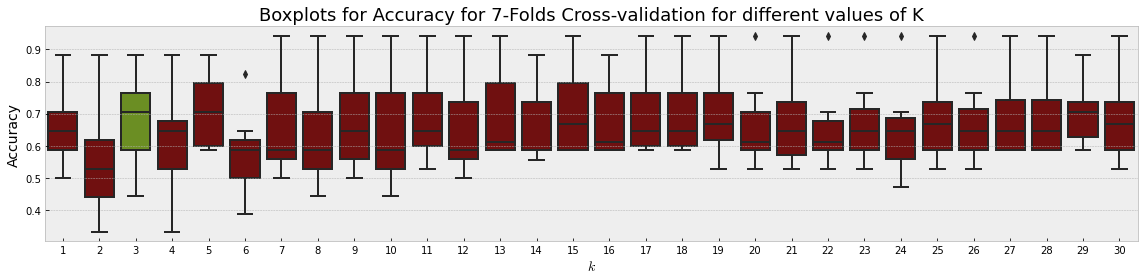
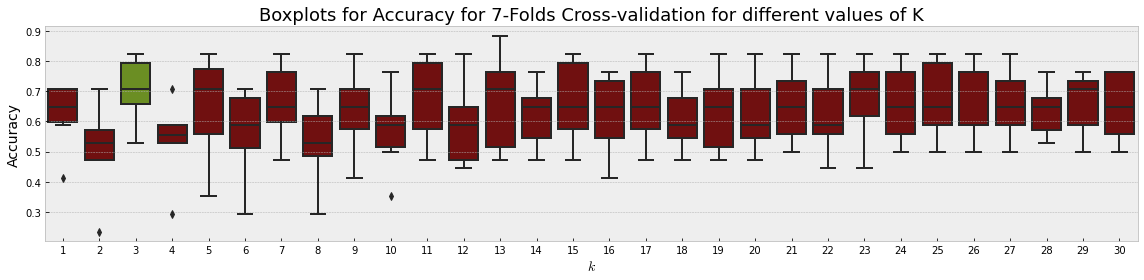
Update KNN

diff --git a/content/Machine Learning/k-Nearest Neighbors.md b/content/Machine Learning/k-Nearest Neighbors.md
@@ -7,7 +7,11 @@ import numpy as np
 import pandas as pd
 import matplotlib.pyplot as plt
 import seaborn as sns
+
 from sklearn import datasets
+from sklearn.model_selection import train_test_split
+from sklearn.model_selection import KFold
+
 from scipy.spatial import distance_matrix
 from scipy.spatial import distance
 ```
@@ -57,21 +61,21 @@ The observed data is the input of the algorithm, and it consists of the all the 
 
 
 ```python
-def k_nearest_neighbors(k, train_x, train_y, test, metric='euclidean'):
+def k_nearest_neighbors(k, train_x, train_y, test_x, metric='euclidean'):
     '''
     Train_x can be considered as the training points (cross-validation) or the original data (prediction)
     Train_y can be considered as the training labels of the orginal points (cross-validation) or the labels of the original data (prediction)
-    Test can be considered as the testing points (cross-validation) or the new points (prediction)    
+    Test_x can be considered as the testing points (cross-validation) or the new points (prediction)    
     '''
     
     # Scale data between 0 and 1 (min-max normalization)
     train_x_min = train_x.min(axis=0)
     train_x_max = train_x.max(axis=0)
     train_x = (train_x - train_x_min) / (train_x_max - train_x_min)
-    test = (test - train_x_min) / (train_x_max - train_x_min)
+    test_x = (test_x - train_x_min) / (train_x_max - train_x_min)
     
     # Calculate distance from each test point to train points
-    distances_matrix = distance.cdist(test, train_x, metric=metric)
+    distances_matrix = distance.cdist(test_x, train_x, metric=metric)
     threshold = np.quantile(distances_matrix, 0.05) 
     
     estimations = []
@@ -115,14 +119,15 @@ The [iris dataset](https://archive.ics.uci.edu/ml/datasets/iris) will be used to
 
 ```python
 iris = datasets.load_iris()
-data = np.column_stack((iris.data[:, :2], iris.target))
+X = iris.data[:, :2]
+y = iris.target
 ```
 
 
 ```python
 colors = ['mediumpurple', 'lightsalmon', 'lightskyblue', 'darkgrey']
 
-plt.scatter(*data[:,:2].T, color=np.choose(data[:,2].astype(int), colors))
+plt.scatter(*X.T, color=np.choose(y.astype(int), colors))
 
 ```
 
@@ -136,60 +141,41 @@ plt.scatter(*data[:,:2].T, color=np.choose(data[:,2].astype(int), colors))
 
 The *k*-NN algorithm will be trained using K-folds Cross-validation and accuracy (percentage of successes) as the error measure. K-folds will be run for 30 values of *k*. For each *k*, the accuracy for each fold will be recorded. The optimum *k* value will be set as the one which presented the highest accuracy median for every K.
 
-(Terminology alert: *k* and K)
+(Note that *k* refers to *k*-NN, and K refers to Cross-validation)
+
+<br>
+
+**Train-Validation Split**
+
+```python
+X_train, X_validation, y_train, y_validation = train_test_split(X, y, test_size=0.2, random_state=42)
+```
+
+**K-folds Cross-validation**
 
 
 ```python
-np.random.seed(42) # For permutation
-
 metric = 'euclidean'
 
 folds = 7
+kf = KFold(n_splits=folds)
 
-# For k-folds. Use 80% for train and 20% for validation
-train_test_split = 0.8 
-
-# Shuffle data
-shuffled_data = np.random.permutation(data)
-
-# Select cut index according to split proportion
-cut_index = int(data.shape[0] * train_test_split)
-
-# Create train and validation sets
-train_set = shuffled_data[:cut_index]
-validation_set = shuffled_data[cut_index:]
-
-# Split train set into points (X) and labels (y) 
-X = train_set[:, :2]
-y = train_set[:, 2]
-
-# Set range of k values
-ks = np.arange(1, 31)
+k_values = np.arange(1, 31)
 
 accuracy_list_training = []
 
-for k in ks:
-    
-    # Divide train set into 'folds' parts
-    cut_indexes = np.linspace(0, train_set.shape[0], folds + 1).astype(int)
+for k in k_values:
     
     folds_accuracy = []
     
-    for i in range(folds):
+    for train_index, test_index in kf.split(X_train):
         
-        # X
-        train_x1, test_x, train_x2 = np.split(X, [cut_indexes[i], cut_indexes[i+1]])
-        train_x = np.concatenate([train_x1, train_x2])
+        X_train_fold, X_test_fold = X_train[train_index], X_train[test_index]
+        y_train_fold, y_test_fold = y_train[train_index], y_train[test_index]
         
-        # Y
-        train_y1, test_y, train_y2 = np.split(y, [cut_indexes[i], cut_indexes[i+1]])
-        train_y = np.concatenate([train_y1, train_y2])
+        estimations = k_nearest_neighbors(k, X_train_fold, y_train_fold, X_test_fold, metric=metric)
         
-        # Get labels estimations
-        estimations = k_nearest_neighbors(k, train_x, train_y, test_x, metric=metric)
-        
-        # Calculate accuracy
-        accuracy = np.mean(estimations == test_y)
+        accuracy = np.mean(estimations == y_test_fold)
         folds_accuracy.append(accuracy)
         
     accuracy_list_training.append(folds_accuracy)
@@ -201,7 +187,7 @@ Boxplots for the accuracy for each *k* considering all K folds will be construct
 
 
 ```python
-accuracy_training_df = pd.DataFrame(data=accuracy_list_training, index=ks)
+accuracy_training_df = pd.DataFrame(data=accuracy_list_training, index=k_values)
 
 best_k_training = np.argmax(accuracy_training_df.median(axis=1)) + 1
 best_accuracy_training = np.max(accuracy_training_df.median(axis=1))
@@ -226,19 +212,14 @@ Once the optimum *k* was found using Cross-validation, the production environmen
 
 
 ```python
-validation_set_x = validation_set[:, :2]
-validation_set_y = validation_set[:, 2]
+estimations = k_nearest_neighbors(best_k_training, X, y, X_validation, metric=metric)
 
-# Test the model with validation set
-estimations = k_nearest_neighbors(best_k_training, X, y, validation_set_x, metric=metric)
-
-# Calculate accuracy
-accuracy_validation = np.mean(estimations == validation_set_y)
+accuracy_validation = np.mean(estimations == y_validation)
 
 print(f'Validation Set Accuracy for k={best_k_training}: {accuracy_validation:.3g}')
 ```
 
-    Validation Set Accuracy for k=3: 0.667
+    Validation Set Accuracy for k=3: 0.967
     
 
 # 4 Distance Metrics Comparison
@@ -317,38 +298,20 @@ To provide an estimate of the classification of different points in the observed
 xs = np.linspace(4, 8, 200)
 ys = np.linspace(1.5, 5, 175)
 
-X, Y = np.meshgrid(xs, ys)
-X = np.ndarray.flatten(X)
-Y = np.ndarray.flatten(Y)
+X_space, Y_space = np.meshgrid(xs, ys)
+X_space = np.ndarray.flatten(X_space)
+Y_space = np.ndarray.flatten(Y_space)
 
-points = np.dstack([X, Y])[0]
+points = np.dstack([X_space, Y_space])[0]
 
 ks = [9, 29, 3, 17]
 
 fig, axes = plt.subplots(2, 2, figsize=(16, 7), sharex=True, sharey=True)
 
 for ax, k, metric in zip(axes.flatten(), ks, ['Canberra', 'Cityblock', 'Euclidean', 'Cosine']):
-    predictions = k_nearest_neighbors(k, data[:,:2], data[:,2], points, metric).astype(int)
+    predictions = k_nearest_neighbors(k, X, y, points, metric).astype(int)
     ax.scatter(*points.T, color=np.choose(predictions, colors), s=10, alpha=0.4)
-    ax.scatter(*data[:,:2].T, color='black', s=50)
-    ax.set_xlim(4, 8)
-    ax.set_ylim(1.5, 5)
-    ax.set_title(f'{metric} distance - $k={k}$')
-
-    if metric == 'Cityblock':
-        ax.set_title(f'Manhattan distance - $k={k}$')
-
-    ax.grid(b=None)
-    ax.axis('off')
-
-plt.figtext(0.36, -0.02, s='Setosa', fontsize=15, color='white', bbox=dict(facecolor=colors[0]), weight="bold", ha='center', va='center')
-plt.figtext(0.45, -0.02, s='Virginica', fontsize=15, color='white', bbox=dict(facecolor=colors[1]), weight="bold", ha='center', va='center')
-plt.figtext(0.55, -0.02, s='Versicolor', fontsize=15, color='white', bbox=dict(facecolor=colors[2]), weight="bold", ha='center', va='center')
-plt.figtext(0.67, -0.02, s='Cannot Predict', fontsize=15, color='white', bbox=dict(facecolor=colors[3]), weight="bold", ha='center', va='center')
-
-plt.suptitle('KNN Flower Type Prediction Map', fontsize=22, y=0.98)
-plt.tight_layout()
-plt.show()
+    ax.scatter(*X.T, color='black', s=50)
 ```
 
 
